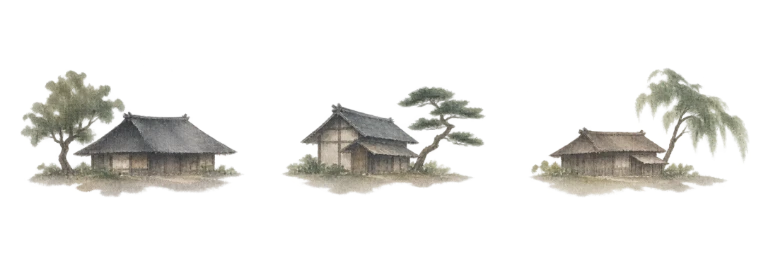
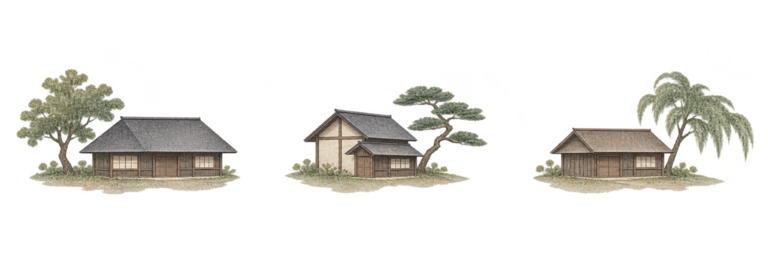
Small Changes

diff --git a/portfolio-v1_1/js/river-scene.js b/portfolio-v1_1/js/river-scene.js
@@ -105,12 +105,13 @@
 
   function drawBankDetails(context, image, geometry) {
     if (!image) return;
-    const { width, riverLeft, riverWidth, riverHeight } = geometry;
+    const { width, mountainWidth, riverLeft, riverWidth, riverHeight } = geometry;
+    // Three house cells followed by three individual watercolor trees.
     const cellWidth = image.naturalWidth / 6;
     const drawCell = (index, left, top, size, anchor, opacity) => {
       context.save();
       context.globalAlpha = opacity;
-      context.drawImage(image, index * cellWidth, 0, cellWidth, image.naturalHeight,
+      context.drawImage(image, index * cellWidth, 0, cellWidth, cellWidth,
         riverLeft + riverWidth * left / 100 - size / 2,
         riverHeight * top / 100 - size * anchor, size, size);
       context.restore();
@@ -119,15 +120,23 @@
     for (const [index, left, top] of [[0, 36.4, 47.65], [1, 47.9, 55.39], [2, 71.8, 57.32]]) {
       drawCell(index, left, top, houseSize, 0.76, 0.86);
     }
-    const treeSize = clamp(20, width * 0.022, 34);
+    const treeSize = clamp(16, mountainWidth * 0.022, 27);
+    // Irregular, stable positions follow dry ground around the river's bends
+    // and central island. Each coordinate anchors the visible trunk's foot.
     for (const [index, left, top, size] of [
-      [0, 18, 43, 0.8], [1, 24, 44, 1], [2, 31, 49, 0.85],
-      [1, 40, 50, 0.9], [0, 49, 43, 1], [2, 57, 42, 0.8],
-      [0, 65, 53, 0.95], [1, 76, 55, 0.85], [2, 85, 51, 1],
-      [1, 94, 48, 0.8], [2, 28, 75, 1], [0, 42, 77, 0.85],
-      [1, 60, 73, 1], [2, 80, 77, 0.9],
+      [0, 16.1, 56.5, 0.88], [1, 18.3, 45, 0.96],
+      [0, 25.2, 45, 0.84], [2, 28.6, 47, 0.92],
+      [0, 30.7, 45, 1], [1, 38.2, 54, 0.86],
+      [0, 40.1, 48.5, 0.94], [2, 46.9, 46.7, 0.9],
+      [0, 49.6, 44.8, 0.96], [1, 56.8, 42.5, 0.9],
+      [0, 62.7, 44.5, 0.84], [1, 64.3, 45.8, 0.82],
+      [0, 72.8, 59.5, 0.9], [0, 77.6, 56.5, 0.86],
+      [1, 79.2, 60, 0.98], [2, 86.7, 54, 0.9],
+      [0, 92.4, 51.2, 0.94], [1, 94.2, 51.8, 0.98],
+      [1, 43.5, 58, 0.92], [0, 48.5, 56, 1],
+      [2, 52.7, 55, 0.86],
     ]) {
-      drawCell(index + 3, left, top, treeSize * size, 0.80, 0.88);
+      drawCell(index + 3, left, top, treeSize * size, 0.82, 0.88);
     }
   }
 

diff --git a/portfolio-v1_1/css/style.css b/portfolio-v1_1/css/style.css
@@ -163,22 +163,32 @@ html[data-theme="light"] .night-moon {
   display: none;
   position: fixed;
   z-index: 3;
-  left: 75%;
+  left: calc(75% + var(--sun-size) * 0.05);
   top: calc(var(--sun-top) + var(--sun-size) * 0.2);
   width: calc(var(--sun-size) * 1.8);
   height: calc(var(--sun-size) * 0.3);
   background: image-set(url("../images/optimized/watercolor-cloud-06.webp") 1x, url("../images/optimized/watercolor-cloud-06@2x.webp") 2x) center / 100% 100% no-repeat;
   filter: grayscale(1) brightness(1.65) blur(3px);
-  opacity: 0.5;
+  opacity: 0.4;
   pointer-events: none;
   transform: translate3d(-50%, calc(-1 * var(--mountain-rise, 0px)), 0);
+}
+
+/* A second, thinner wisp reaches in from the left across the lower sun.
+   Keep the upper veil's painted texture and soft, hazy treatment. */
+.sun-mist--lower {
+  left: calc(75% - var(--sun-size) * 0.3);
+  top: calc(var(--sun-top) + var(--sun-size) * 0.72);
+  width: calc(var(--sun-size) * 1.05);
+  height: calc(var(--sun-size) * 0.18);
 }
 
 .watercolor-clouds {
   display: none;
   position: fixed;
   inset: 0;
-  z-index: 3;
+  /* Sun (2), mist (3), then foreground clouds (4). */
+  z-index: 4;
   overflow: hidden;
   pointer-events: none;
 }
@@ -1019,11 +1029,11 @@ main h1,
 }
 
 .home-introduction + .section {
-  padding-top: 24px;
+  padding-top: 40px;
 }
 
 .section.selected-projects {
-  margin-top: 24px;
+  margin-top: 8px;
 }
 
 .home-introduction-text {
@@ -1210,6 +1220,14 @@ main h1,
 /*  CV page */
 /* ----------------------------------------------------------------------------------------- */
 
+.cv-page-heading {
+  max-width: 1040px;
+}
+
+.cv-page-heading p {
+  max-width: 760px;
+}
+
 .cv-button-area {
   margin-top: 22px;
 }
@@ -1250,6 +1268,12 @@ main h1,
 
 .cv-section {
   padding-bottom: 45px;
+}
+
+.cv-section > h2 {
+  text-decoration: underline;
+  text-decoration-thickness: 1px;
+  text-underline-offset: 0.2em;
 }
 
 .cv-section + .cv-section {
@@ -2199,7 +2223,7 @@ html[data-theme="light"] .footer-socials a:focus-visible {
   }
 
   .section.selected-projects {
-    margin-top: 16px;
+    margin-top: 0px;
   }
 
   /* Keep space for all four page links and the theme button. */

diff --git a/portfolio-v1_1/js/background.js b/portfolio-v1_1/js/background.js
@@ -33,6 +33,9 @@
   const sunMist = document.createElement("div");
   sunMist.className = "sun-mist";
   sunMist.setAttribute("aria-hidden", "true");
+  const lowerSunMist = document.createElement("div");
+  lowerSunMist.className = "sun-mist sun-mist--lower";
+  lowerSunMist.setAttribute("aria-hidden", "true");
   const birds = document.createDocumentFragment();
   for (const position of ["", "top-right", "middle-left"]) {
     const flock = document.createElement("div");
@@ -40,7 +43,7 @@
     flock.setAttribute("aria-hidden", "true");
     birds.append(flock);
   }
-  background.append(birds, ink, river, sunMist, tree);
+  background.append(birds, ink, river, sunMist, lowerSunMist, tree);
 
   const moon = document.createElement("div");
   moon.className = "night-moon";

diff --git a/portfolio-v1_1/cv.html b/portfolio-v1_1/cv.html
@@ -50,8 +50,8 @@
     </header>
 
     <main id="main-content" class="content" tabindex="-1">
-      <header class="page-heading">
-        <h1>Experience and education</h1>
+      <header class="page-heading cv-page-heading">
+        <h1>Experience and Education</h1>
         <p>
           I study software engineering at VIA University College and work as an Internal Sales
           Specialist. My experience includes technical sales, customer support, marketing, business

diff --git a/portfolio-v1_1/reports/artwork/watercolor-art.md b/portfolio-v1_1/reports/artwork/watercolor-art.md
@@ -9,7 +9,7 @@ The current master paintings are kept in `assets/scenery/` under the project fol
 - CSS `image-set()` selects normal or `@2x` exports for the display density. The 16 active normal-resolution paintings total 417,770 bytes, compared with 3,201,064 bytes for the 17 active source images (87% less). The high-resolution exports total 1,263,688 bytes (about 61% less).
 - The mountain's three identical pigment washes are baked into one image, preserving their combined opacity while removing two repeated background paints in the browser.
 - The active mountain export is `watercolor-mountains-defined-ridge`. A locally integrated image edit replaces the smeared rear shoulder with one continuous watercolor contour. The original main peaks and pixels outside the narrow ridge band remain unchanged, including the existing three pigment washes and connected slopes. See [the edit notes and prompts](autumn-scenery.md).
-- The river export uses fewer vertical pixels to match its shallow on-screen proportions. Tiny hamlets and riverbank groves share a six-cell sprite: three hamlets, then three groves. Their independent CSS sizing and bank placement are preserved.
+- The river export uses fewer vertical pixels to match its shallow on-screen proportions. Tiny hamlets and individual riverbank trees share a six-cell sprite: three hamlets, then one green broadleaf tree, one conifer and one autumn broadleaf tree. The trees follow irregular dry-bank positions with visible trunk feet anchored to the land; their scale follows the mountain. House sizing and locations are preserved, with their architecture refined to straighten roofs, posts, and windows. See [individual-tree artwork notes](watercolor-river-trees.md) and [house cleanup notes](watercolor-river.md#house-architecture-cleanup).
 - Mountains, river, sun, clouds, and the footer cherry tree keep their separate responsive placement and animation. Combining these into one fixed painting would change their proportions or move the footer tree with the sky.
 - The cherry tree starts fully below the viewport, then rises with root scroll progress. It travels 80% of its size plus 8px, using an ease-out curve that starts at the same faster pace but retains a gentle speed near the footer instead of flattening almost to a standstill. The native CSS curve and JavaScript fallback preserve fractional positions and share the same shape. It uses a native scroll timeline where supported and shares the existing animation-frame fallback elsewhere. Reduced motion places it in the document near the footer, below the initial viewport, without parallax. There is no footer-triggered slide or idle tree animation.
 - `js/theme.js` warms the appropriate exports during idle time and waits for image decoding before switching from dark to light. An initial light-mode visit reveals the artwork together after decoding. Failed images do not block theme switching, and reduced-motion preferences suppress the reveal animation.
@@ -19,6 +19,7 @@ The current master paintings are kept in `assets/scenery/` under the project fol
 - Woodland paint width follows the resolved mountain scale: 34% for a small rear bank row, 40% for the pale shore row and 48% for the nearer rows, with no vertical stretching. The rear row closes pale gaps where the winding riverbank meets the larger canopy. Every grove uses the flatter right-hand canopy of the source. A soft contour places the forest around the mountain's base, avoiding the old taller foothill section. Overlapping, offset and occasionally mirrored groves repeat downward to fill the entire foreground instead of leaving a finite band with blank paper beneath it. Horizontal tile spacing is 48% of paint width, so the 22% overlap exceeds even two mirrored wide edge fades (21%) and avoids pale vertical seams in the paper backing.
 - The finished canvas has full CSS opacity on desktop and mobile. Composed tree interiors receive an opaque paper-tone backing before the mountain-base mask is applied; colour compensation preserves their appearance on the cream page. True gaps and the light outer pigment remain feathered, while scenery no longer shows through the dense forest.
 - A few faint wisps of the already-loaded `watercolor-cloud-06` texture form pale mist over the woodland. Each receives a full elliptical feather, including the flatter underside, and is placed at a slightly different angle, width and height. Lower opacity and a brighter paper tint retain the tree colours instead of creating a dull flat band or a straight cutoff on the right. They are composited onto existing tree pixels after the opacity backing, before the mountain-base mask; the forest stays opaque and the river remains clear. Desktop uses three offset wisps and mobile uses two. The mist is painted into the same static canvas, with no additional artwork download or animation loop.
+- A second `.sun-mist--lower` wisp extends from the left across the lower edge of the sun, following the user's placement guide. It reuses the cloud-06 painting and the upper veil's grayscale, brightness, 3px softening, and 40% opacity so both have the same hazy watercolor treatment. Its width is 105% of the sun, its height 18%, and its top is 72% down the sun. No new image request is needed. The existing `.sun-mist` scroll and reduced-motion rules apply to both wisps, and both are hidden in dark mode. Both mist wisps sit between the sun and the foreground clouds: sun at z-index 2, mist at 3, foreground clouds at 4. The separate rear cloud stays at 1.
 - The foreground cherry tree uses the solid-interior edit `watercolor-cherry-tree-solid` at full CSS opacity. The blossom and trunk paint blocks the scenery behind it, while empty branch gaps and feathered silhouette edges retain transparency. Its position follows scroll progress as described above. Footer columns reserve space to its left, with a smaller cropped tree on phones.
 - The active `watercolor-river-forest-autumn` exports are 720px and 1440px wide, at 41,854 and 136,304 bytes respectively. A scattered minority of the broadleaf trees have warm autumn foliage among the green conifers. Theme preparation waits for the deferred painter and the completed canvas before revealing light mode. The original river inset, basin position, small detail scale and wide-screen reach are preserved internally in the combined painting. Outdated asynchronous resize requests cannot overwrite a newer scene.
 - Cards, skill badges, social icons, buttons and nested case-study surfaces use their tints and borders without backdrop blur. Project, information, contact, CV and profile cards use a stronger warm-paper tint in light mode and a deeper night tint in dark mode to keep the scenery from competing with the text. All content cards, including the profile-picture frame, are free of backdrop blur. Panels keep a single restrained light-theme shadow. The navbar is transparent at scroll position zero. Its solid theme-matched background and thin bottom divider fade in together over 300ms when scrolling starts, and fade out again on returning to the top. It has no backdrop blur at any scroll position; reduced motion disables the fade.

diff --git a/portfolio-v1_1/reports/artwork/watercolor-river-trees.md b/portfolio-v1_1/reports/artwork/watercolor-river-trees.md
@@ -1,9 +1,21 @@
-# Riverside tree clusters
+# Individual forest-matched riverside trees
 
-Generated with the built-in imagegen tool using the existing mountain painting as a style reference. [watercolor-river-trees.webp](../../assets/scenery/watercolor-river-trees.webp) is a 768 × 256 transparent sprite sheet (about 62 KiB). Three distinct tree clusters form fourteen tiny groves along dry riverbanks, rendered at 16–34px per cell. The river's size, houses, scenery motion and sun are preserved.
+Updated on 2026-11-12 with the built-in `image_gen` tool. The existing autumn forest was the style reference. The replacement sheet contains exactly three individual trees: one green broadleaf, one evergreen conifer, and one copper/ochre broadleaf. Each sprite has one trunk and one tree, with transparent space around it.
+
+## Active artwork and display exports
+
+- [Tree master](../../assets/scenery/watercolor-river-trees.webp): 768 × 256 transparent lossless WebP, three equal square cells. The generated 2170 × 725 PNG was normalized to the master size and shifted up 11px so the visible root tips meet the renderer's 82% trunk-foot anchor.
+- [Display atlas](../../images/optimized/watercolor-river-details.webp): 204 × 34 transparent lossless WebP. Three 34 × 34 house cells are followed by three 34 × 34 individual-tree cells.
+- [High-density atlas](../../images/optimized/watercolor-river-details@2x.webp): 408 × 68, with the same layout at twice the resolution.
+
+The tree replacement initially preserved the existing house artwork, sizes, locations, and opacity. A subsequent [house architecture cleanup](watercolor-river.md#house-architecture-cleanup) refined the house cells while preserving these individual-tree pixels and their alpha values. Tree display size follows `clamp(16, mountainWidth * 0.022, 27)`, with small variations from 0.82 to 1. Individual crowns remain smaller than the foreground forest for distance.
+
+Twenty-one irregularly spaced trees follow sampled dry ground around the winding far bank and central island. Their stable coordinates vary in both horizontal position and bank depth, and each anchors its visible trunk foot to the land. The previous row at 73–77% river height was removed because it overlapped the dense foreground forest. There are no grouped tree sprites or wide floating ground platforms.
+
+The existing river/forest canvas still combines all scenery into one static painting. No extra image requests, DOM elements, live filters, animation loops, or redraws during scrolling are introduced. Atlas loading and before/after scenery were checked at 1920 × 1080, 1366 × 768, and 390 × 844 at 2× density; decoded house pixels were also compared directly with the previous exports.
 
 ## Generation prompt
 
 ```text
-Create a transparent watercolor sprite sheet for tiny distant riverside trees in a Japanese landscape website. Supplied mountain is STYLE reference only: muted sage, gray olive, slate, charcoal, authentic loose wet-on-wet Japanese watercolor and sumi-e, feathery pigment, fine trunks, soft dry-earth grounding wash. Wide 3:1 canvas divided invisibly into THREE EQUAL SQUARE CELLS. Three isolated DIFFERENT tree clusters, one centered within each cell, fully contained with generous transparent margin. LEFT: asymmetrical grove of three small slender deciduous trees of varied heights. MIDDLE: two graceful irregular Japanese pines with broad airy canopies, no geometric triangles. RIGHT: a loose group of four willow-like trees, leaning branches and soft sparse gray-green foliage. Ground baseline in all cells at 80 percent cell height. Actual tree silhouettes should occupy about 55 percent of cell width and 60 percent of height. These display at 20–35 pixels per cell, use legible restrained silhouettes and a few lovely pigment blooms. Make genuinely transparent background including every corner and gaps, no paper or white matte. No buildings, mountains, water, river, sun, moon, birds, text, borders, grid lines, signature or watermark. Do not connect the three clusters, no repeated identical shapes, no illustration of a whole landscape.
+Use case: precise-object-edit. Asset type: transparent watercolor sprite sheet of THREE SINGLE INDIVIDUAL TREES for a Japanese riverside website scene. Image 1 is ONLY a style reference: the existing dense autumn woodland. Image 2 is the existing tree sprite sheet to REPLACE. The grouped bushes in Image 2 were rejected. Replace them with exactly THREE separate trees total: ONE TREE ONLY in each equal square cell of a 3:1 horizontal canvas. Left third: ONE individual rounded sage-green deciduous tree, with one single clearly visible slender trunk and gently layered leafy crown. Middle third: ONE individual narrow dark-green evergreen conifer, with one trunk and fine natural irregular branches. Right third: ONE individual rounded deciduous tree with subdued copper/ochre foliage, one slender trunk, delicate leafy crown. The three trees should look like single trees from Image 1, not small forests. Each tree must be fully separate, with empty transparent space around it. NO second tree, NO neighboring shrub, NO sapling, NO grove, NO bush clumps, NO groups or mini-landscapes inside any cell. Style: the exact muted watercolor pigment, leaf texture, sage/olive greens, charcoal-green evergreen and subdued Japanese autumn palette of Image 1. Composition: exactly three equal square cells without grid lines, tree trunks horizontally centered in each square. Each tree's trunk ends at exactly 82 percent of cell height, all three root baselines level. Tops around 15-20 percent cell height. Rounded broadleaf crowns occupy approximately 45-55 percent cell width; conifer narrower. Keep the trunk visible just below the canopy so it can be precisely anchored on the painted riverbank. No wide ground strip, NO floating oval ground platform, NO grass tuft, NO stones, NO large shadow or ground wash. Just the single tree and a tiny natural root tip. Genuine transparent background and surrounding space, including all corners. Dense painted foliage interiors with soft antialiased pigment edges. Do not add water, riverbanks, mountains, buildings, sky, clouds, mist, other vegetation, words, frames, borders, logos or watermark. Preserve the panoramic 3:1 sheet format, exactly ONE TREE in EACH of THREE cells, transparent PNG.
 ```

diff --git a/portfolio-v1_1/reports/artwork/watercolor-river.md b/portfolio-v1_1/reports/artwork/watercolor-river.md
@@ -9,6 +9,18 @@
 - The source blends into the mountain over the leftmost 24%. The river, its pigment marks, tiny details, mountains, sun and mist share the same gentle 4vh scroll drift.
 - The previous 38–64px lower placement is preserved, with a smaller offset on short screens. Everything in this layer is hidden in dark mode and when printing.
 
+## House architecture cleanup
+
+The active [house master](../../assets/scenery/watercolor-river-hamlets.webp) was refined with the built-in `image_gen` tool on 2026-11-12. The edit straightens roof ridges and eaves, aligns upright posts and walls, and replaces smeared window/porch marks with simpler, coherent architecture. Soft pigment texture and feathered surroundings remain. The generated transparent PNG was normalized to the existing 768 × 256, three-cell master.
+
+Only the first three house cells in the existing display atlases were replaced. The individual riverbank tree pixels and their alpha values are preserved. The atlases remain 204 × 34 at 1× and 408 × 68 at 2×, using lossless transparent WebP. House display sizes, bank positions, and the 76% grounding anchor are unchanged. The renderer still uses the same single static river/forest canvas, with no added runtime layers or image requests.
+
+### Cleanup prompt
+
+```text
+Use case: precise-object-edit. Asset type: localized cleanup of THREE tiny Japanese watercolor house sprites used in an existing landscape website. Image 1 is the EDIT TARGET: a transparent 768x256 sprite sheet of three house-and-tree vignettes in three equal square cells. Fix only the architecture in these three existing houses. Preserve their placement, size, orientation, small traditional Japanese farmhouse style, muted gray-brown palette and transparent vignettes. Their current roofs, walls, porch rails and windows look warped and smeared. Repaint the houses with clear believable simple architecture: STRAIGHT roof ridge and eave segments, two coherent planar pitched roof slopes with consistent perspective, straight vertical timber posts, straight wall corners, a few neat rectangular doors/windows and understated timber framing. Keep the number of structural lines small and legible; each house is only displayed at 18-32 pixels, so a well-proportioned roof and wall silhouette matters much more than microdetail. Left: same low broad dark-timber farmhouse with charcoal-gray pitched roof. Center: same narrower cream plaster and timber house with its small lower side roof, structurally aligned. Right: same modest low weathered wood farmhouse with brown-gray roof, correctly aligned porch and simple door/window divisions. The architectural geometry should read like a careful watercolor painter used a ruler for the underlying perspective, then painted naturally: fine soft pigment edges and genuine gentle granulation INSIDE clean, straight-edged building forms. Do not use sagging roof ridges, melted or doubled eaves, wavy pillars, crooked windows, random crossing lines, illegible glyph-like marks, ornate detailing, oversharpened outlines, glossy 3D or a flat vector/cartoon style. Preserve the existing sparse adjacent trees, their shapes and locations, subdued ground washes and overall house/foliage footprints as closely as possible; do not add or enlarge trees or houses. Keep each entire vignette well inside its own equal square cell, with generous transparent margins, and ground contact centered around 76 percent cell height, matching the existing sprite anchor. Clean any gray/white rectangular matte fragments under and around sprites into real alpha with only the feathered painted grounding remaining. Preserve genuinely transparent space between cells and outside the painted forms. Keep the exact wide 3:1 composition. No sky, landscape background, river, mountains, people, extra buildings, new vegetation, text, borders, logos, watermarks, opaque white paper or checkerboard. Output the same three isolated transparent watercolor house vignettes with tidier straighter architecture.
+```
+
 ## River generation prompt
 
 ```text
